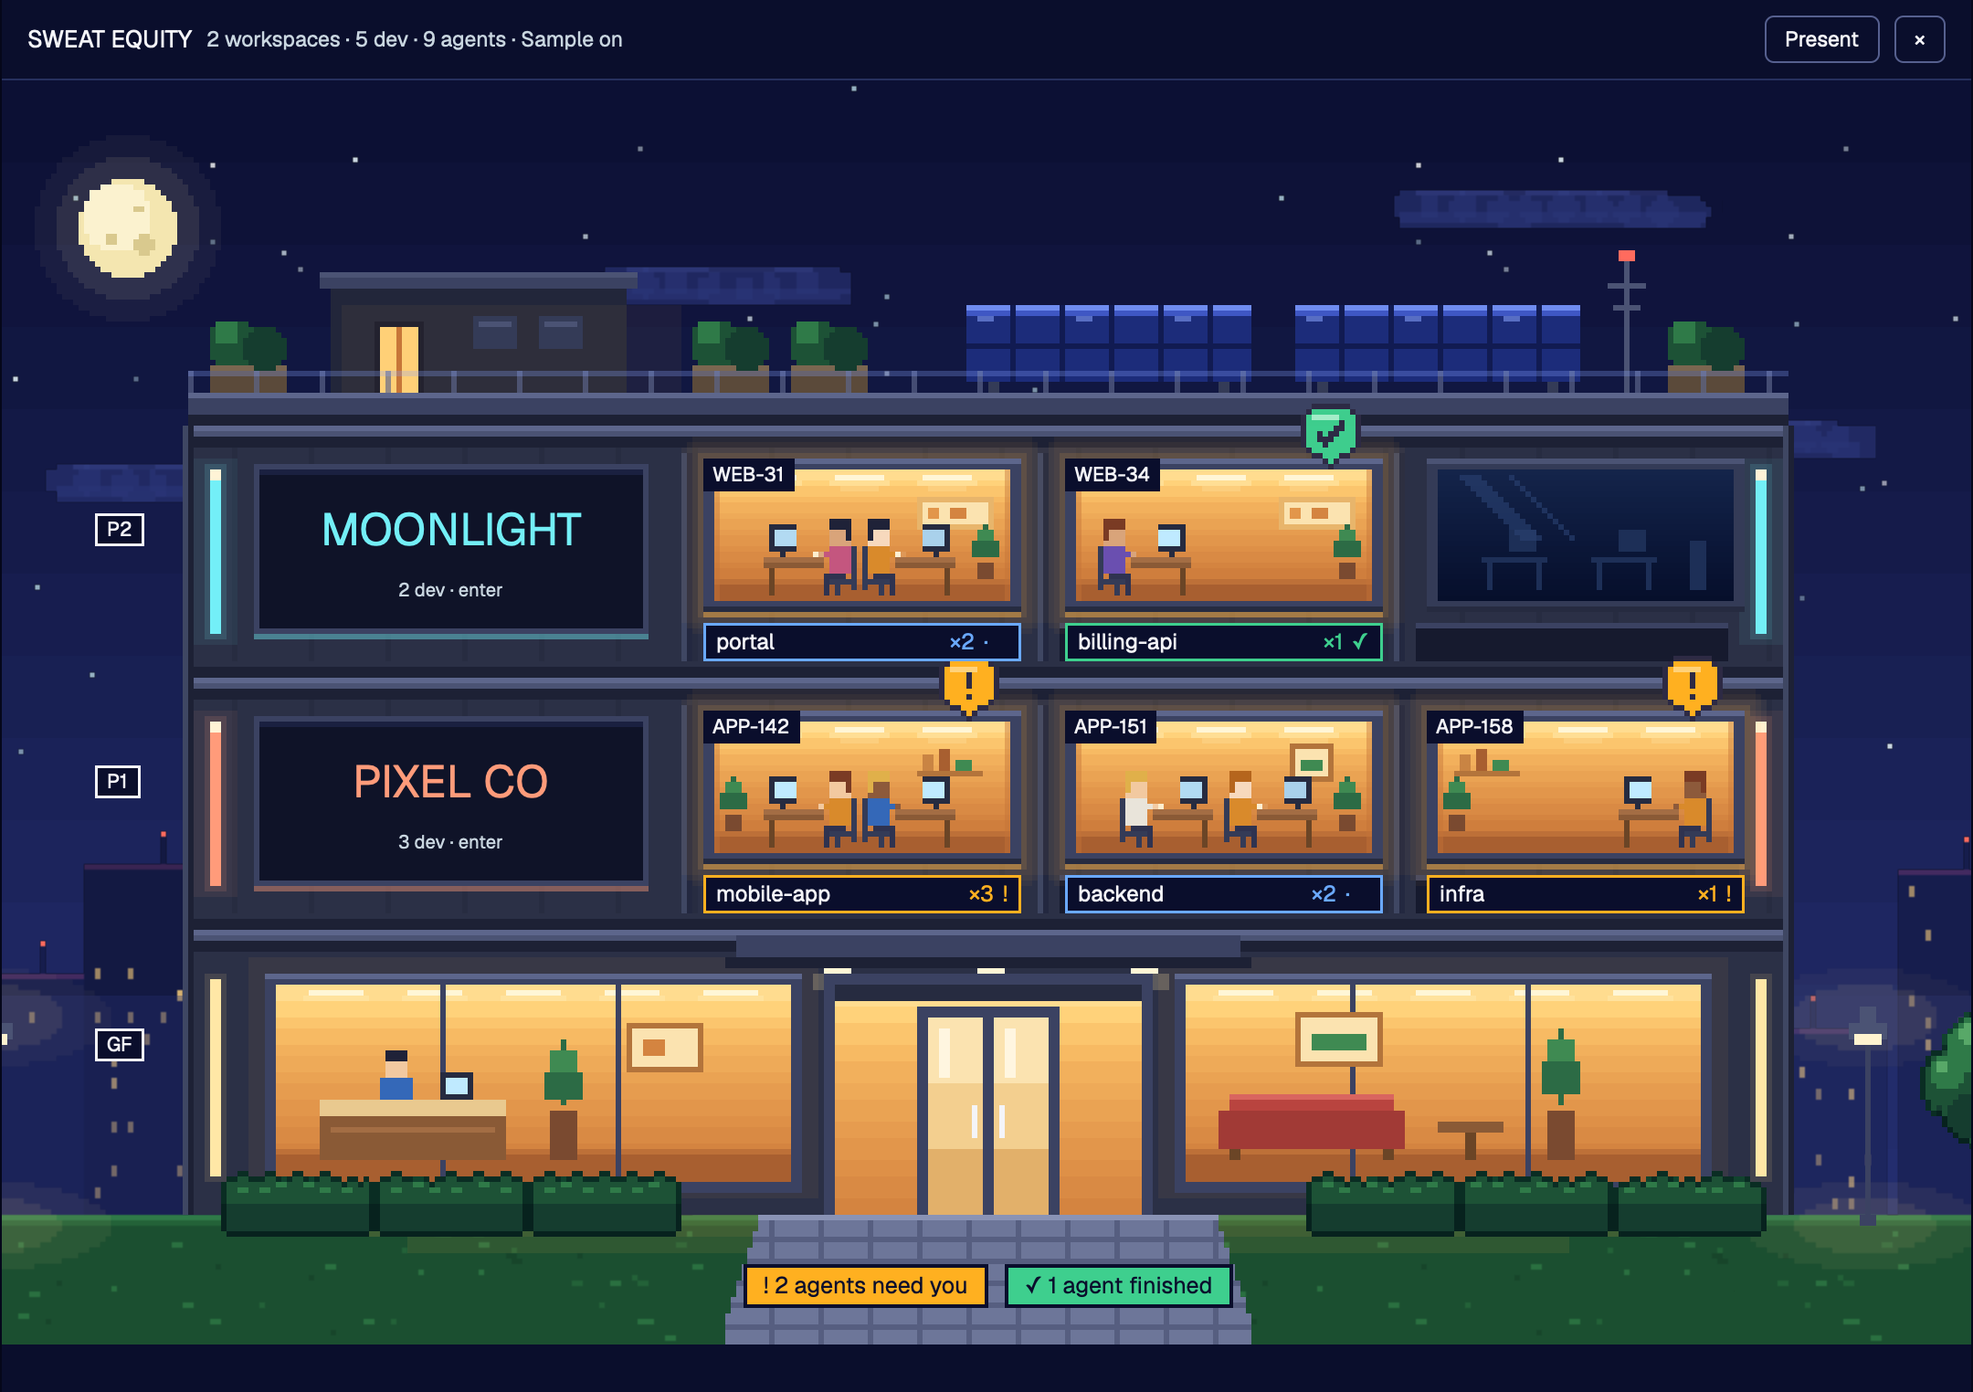
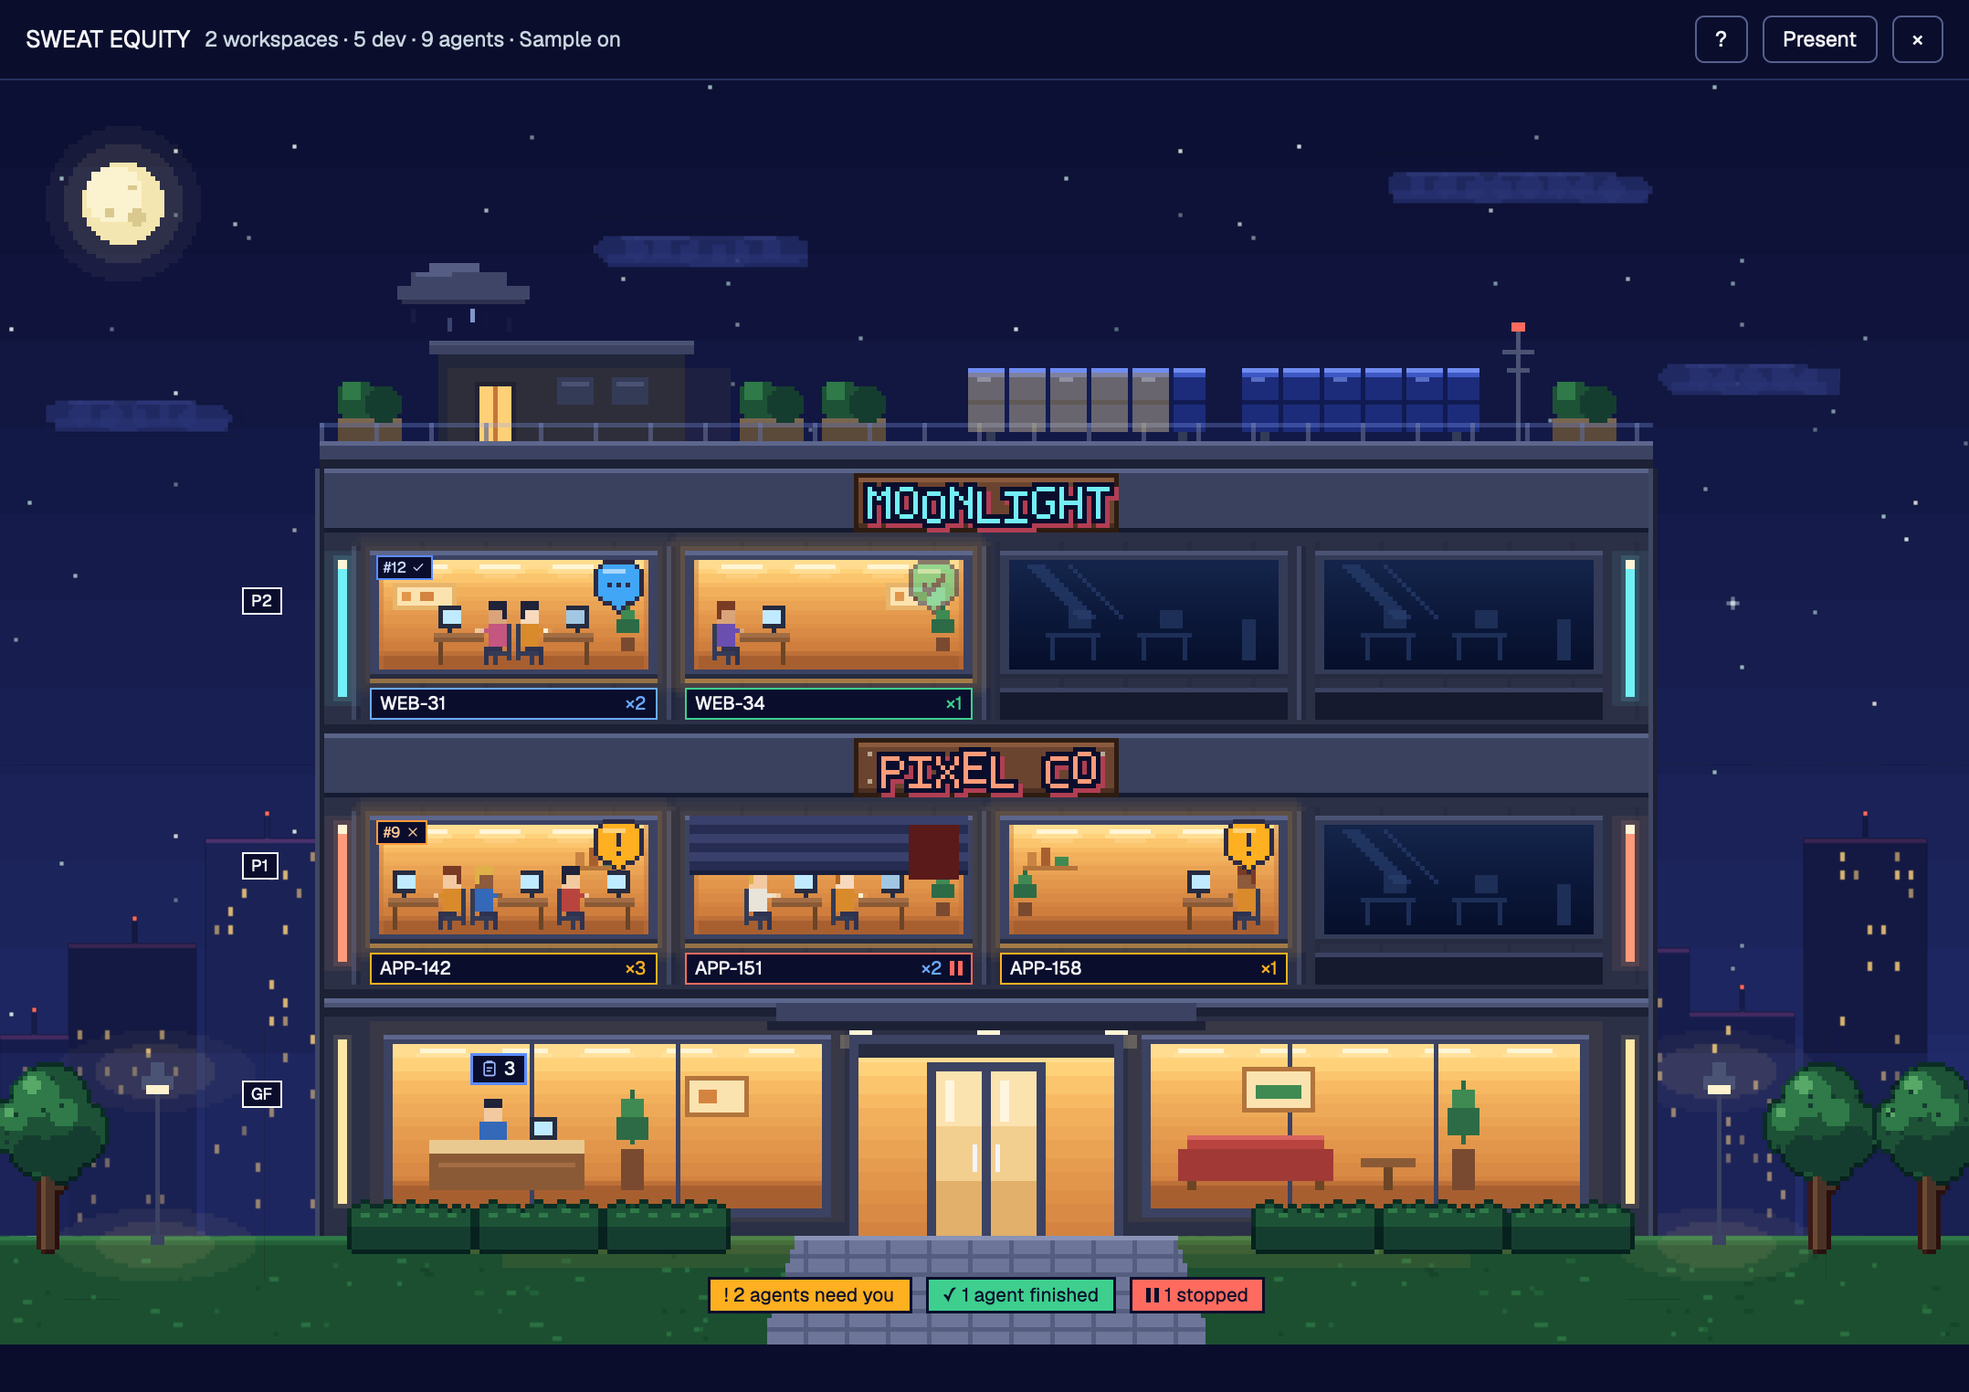
Add office and Jira panel screenshots to the READMEs
- Fresh preview.png of the sample tower (blinds, PR tags, storm cloud,
  solar panels, reception badge), plus office.png (inside PIXEL CO) and
  jira.png (APP-142's panel), all shot from Herdr with the sample on.
- The sample's APP-142 room carries five subtasks, and its whiteboard
  opens the issue panel; Jira, terminals and replies stay inert there.
- Post-it meta lines wrap instead of spilling out of the card, and a
  column's count sits beside its name.
- The READMEs say a whiteboard click opens the ticket's panel.

diff --git a/mods/sweat-equity/main.js b/mods/sweat-equity/main.js
@@ -482,7 +482,7 @@ export default class SweatEquity extends View {
       const R = office?.rooms?.find((r) => r.key === P.key);
       if (!R) { this.panel = null; return null; }
       // Jira's data when there is some; otherwise what the room already knows (the sample, or the counts it carried)
-      const iss = this.jira.issues[R.key] ?? (R.cols ? { status: R.statusText, summary: R.title, cols: R.cols, names: R.names, curCol: R.curCol, done: R.cols[R.cols.length - 1], blocked: R.blocked, solo: false, subs: [] } : null);
+      const iss = this.jira.issues[R.key] ?? (R.cols ? { status: R.statusText, summary: R.title, cols: R.cols, names: R.names, curCol: R.curCol, done: R.cols[R.cols.length - 1], blocked: R.blocked, solo: false, subs: R.subs ?? [] } : null);
       // the columns are the Jira board's own; the sample keeps the four of the design
       const names = iss?.names ?? t.colNames, last = names.length - 1;
       const POSTIT = ["#f6e7a6", "#ffd7b0", "#dccbff", "#bdeccc"], STOP = "#ff8a80", RED = "#e2532f";
@@ -511,14 +511,14 @@ export default class SweatEquity extends View {
       const board = h_flex().gap(6).items_start().children(names.map((nm, c) => {
         const list = iss ? iss.subs.filter((s) => s.col === c) : [];
         return v_flex().flex_1().min_w(0).gap(6).p(6).rounded(6).bg(col(PICK)).border_t(3).border_color(col(TOP(c)))
-          .child(div().text_size(11).font_bold().text_color(col(PAPER)).child(`${nm} `).child(div().text_color(col(DIM)).font_normal().child(String(list.length))))
+          .child(h_flex().gap(5).text_size(11).font_bold().text_color(col(PAPER)).child(div().truncate().child(nm)).child(div().text_color(col(DIM)).font_normal().child(String(list.length))))
           .children(list.map((s, i) => v_flex().id(`se-sub-${c}-${i}`).gap(3).p(7).rounded(3).bg(col(s.blocked ? "#ff8a80" : tint(c))).cursor_pointer()
             .border_l(s.blocked ? 4 : 0).border_color(col("#c62828"))
             .when(!s.blocked && !!s.by && !!s.at && Date.now() - s.at < 10 * 60000, (el) => el.border(2).border_color(col(BLUE)))
             .hover((x) => x.opacity(0.85)).tooltip(`${s.key} · ${s.summary}\n${s.status}`)
-            .on_click(() => this.openKey(s.key))
+            .on_click(() => { if (!tower.demo) this.openKey(s.key); })
             .child(div().text_size(11.5).font_semibold().text_color(col(INK)).child(s.summary))
-            .child(h_flex().gap(6).items_center().text_size(9.5).text_color(col("#5c6078"))
+            .child(h_flex().flex_wrap().gap_x(6).gap_y(2).items_center().text_size(9.5).text_color(col("#5c6078"))
               .when(s.blocked && !!s.since, (el) => el.child(this.bars("#7a0f0f", 8)).child(div().font_bold().text_color(col("#4a1010")).child(fmtAge(Date.now() - s.since))))
               .when(!!s.by, (el) => el.child(svg(`${DIR}/icons/robot.svg`).size(11).text_color(col("#2b3a8f"))).child(div().font_semibold().text_color(col("#2b3a8f"))
                 .child(s.at ? `${s.by} · ${t.ago.replace("{t}", fmtAge(Date.now() - s.at))}` : s.by)))
@@ -529,14 +529,14 @@ export default class SweatEquity extends View {
       const waiting = R.agents.filter((a) => a.state === "blocked");
       const squad = h_flex().gap(6).flex_wrap().children(R.agents.map((a, i) => h_flex().id(`se-sq-${i}`).gap(6).px(8).h(24).items_center().rounded(5).bg(col(PICK)).cursor_pointer()
         .border(1).border_color(col(STATUS[a.state]?.color ?? LINE)).tooltip(a.doing || a.name).text_size(11.5).text_color(col(PAPER))
-        .on_click(() => { this.panel = null; this.go("agent.focus", { terminal: a.address }); })
+        .on_click(() => { if (tower.demo) return; this.panel = null; this.go("agent.focus", { terminal: a.address }); })
         .child(div().flex_none().w(8).h(8).rounded(4).bg(col(STATUS[a.state]?.color ?? DIM)))
         .child(div().truncate().max_w(170).child(a.name))));
       const banners = waiting.map((a, i) => h_flex().id(`se-wait-${i}`).gap(10).items_center().pl(12).pr(6).py(6).rounded(8).border(2).border_color(col("#ffb020")).bg(col("#3a2a10"))
         .child(div().flex_none().w(10).h(10).rounded(5).bg(col("#ffb020")))
         .child(div().flex_1().min_w(0).truncate().text_size(12).text_color(col(PAPER)).child(t.waitsYou.replace("{who}", a.name)))
-        .child(this.button(`se-reply-${i}`, t.reply, true, () => { this.panel = null; this.go("agent.focus", { terminal: a.address }); })));
-      const open = this.cfg.jira ? [this.button("se-open-jira", t.openJira, true, () => this.openKey(R.key))] : [];
+        .child(this.button(`se-reply-${i}`, t.reply, true, () => { if (tower.demo) return; this.panel = null; this.go("agent.focus", { terminal: a.address }); })));
+      const open = this.cfg.jira && !tower.demo ? [this.button("se-open-jira", t.openJira, true, () => this.openKey(R.key))] : [];
       if (pr?.url) open.push(this.button("se-open-pr", t.openPr.replace("{n}", String(pr.number)), false, () => this.openUrl(pr.url)));
       const moved = readLog().events.filter((e) => e.story === R.key && ["move", "stopped", "done", "stale"].includes(e.kind)).slice(0, 3);
       const recent = moved.length ? [this.section(t.recent), v_flex().gap(4).children(moved.map((e, i) => h_flex().id(`se-rec-${i}`).gap(10).items_center().px(8).py(6).rounded(4).bg(col("#161d45")).text_size(12)
@@ -844,7 +844,7 @@ export default class SweatEquity extends View {
       buildOffice(sc, fit, office, {
         t, spot: talking.length ? talking[this.spot % talking.length].id : null,
         onAgent: focus,
-        onIssue: !tools ? null : act((room, cx) => { if (!room.general) { this.panel = { kind: "issue", key: room.key }; cx?.notify?.(); } }),
+        onIssue: !tools && !(tower.demo && !st.presenting) ? null : act((room, cx) => { if (!room.general) { this.panel = { kind: "issue", key: room.key }; cx?.notify?.(); } }),
         onNew: tools ? act((cx) => this.openNew(floor.name, cx)) : null,
       });
       sceneW = fit.w * k; sceneH = fit.h * k;

diff --git a/mods/sweat-equity/data.js b/mods/sweat-equity/data.js
@@ -297,12 +297,21 @@ export function demoLive() {
   };
 }
 
+// the sample story's subtasks, so the sample's board has post-its: one stopped, one moved by an agent a moment ago
+const demoSubs = () => [
+  { key: "APP-160", summary: "Error copy for a wrong PIN", status: "To do", col: 0 },
+  { key: "APP-143", summary: "PIN endpoint with rate limit", status: "In progress", col: 1, by: "backend", at: Date.now() - 4 * 60000 },
+  { key: "APP-144", summary: "PIN screen on the transfer flow", status: "On hold", col: 1, blocked: true, since: Date.now() - 26 * 3600000 },
+  { key: "APP-145", summary: "Carrier API contract", status: "Done", col: 3 },
+  { key: "APP-146", summary: "Audit log for transfers", status: "Done", col: 3, by: "docs" },
+];
+
 export function demoOffice(floor, t) {
   const room = (key, title, statusText, counts, cur, list, cols = [counts[0], counts[1], 0, counts[2]], curCol = cur === 2 ? 3 : cur) => ({ key, title, statusText, counts, cols, curCol, cur, agents: list, more: 0 });
   return {
     name: floor.name, color: floor.color,
     rooms: [
-      room("APP-142", "Validate the PIN on number transfer", "In progress", [1, 2, 2], 1, [demoAgent("a1", "qa", "blocked"), demoAgent("a2", "backend", "working"), demoAgent("a3", "mobile-app", "working"), demoAgent("a4", "docs", "done")]),
+      { ...room("APP-142", "Validate the PIN on number transfer", "In progress", [1, 2, 2], 1, [demoAgent("a1", "qa", "blocked"), demoAgent("a2", "backend", "working"), demoAgent("a3", "mobile-app", "working"), demoAgent("a4", "docs", "done")]), subs: demoSubs() },
       room("APP-151", "Top up with a saved card", "In review", [0, 3, 3], 1, [demoAgent("a5", "backend", "done"), demoAgent("a6", "mobile-app", "working"), demoAgent("a7", "qa", "working")], [0, 1, 2, 3], 2),
       room("APP-158", "eSIM activation", "To do", [4, 0, 0], 0, [demoAgent("a8", "backend", "blocked"), demoAgent("a9", "infra", "idle")]),
     ],

diff --git a/RECIPE.md b/RECIPE.md
@@ -66,7 +66,7 @@ Amber is used for nothing else in the art.
 - A whiteboard title or a plaque opens the ticket in the browser when Jira is configured.
 - `+ workspace` opens the folder picker; the workspace takes the folder's name in capitals (16 letters at most) and the next color of `#ff9b7a #73eff7 #a7f070 #d0a8ff #ffd27a #94b0c2`.
 - `Present` removes the spare top floor, whoever waits outside, the footer notes, and every control that changes something (`+ new`, eye, pen, right click). Hidden floors stay hidden with or without it.
-- `Sample` swaps in a made-up tower (PIXEL CO, MOONLIGHT) where you can walk into the floors and nothing else responds.
+- `Sample` swaps in a made-up tower (PIXEL CO, MOONLIGHT) where you can walk into the floors and open `APP-142`'s panel, and nothing else responds.
 - `×` or Esc closes the tower, with or without a panel open. Hovering a chip, a label, an icon, a whiteboard title or a plaque shows its full text.
 
 **Keys.** In `layout:sweat-equity`: `cmd-shift-e` and `ctrl-shift-e` run `mod.open:sweat-equity`.
@@ -84,7 +84,7 @@ Amber is used for nothing else in the art.
   - `facade.js`: the tower. `office.js`: one floor's inside. `data.js`: Herdr data to floors, rooms, coworkers and lounge; the config file; the sample tower; Jira.
   - `sprites.js` (generated): sprite name to `[width, height]` in art pixels; `SPOTS`, for each lit window, one `[screen x, screen y, hands x, hands y]` per person inside; `PEOPLE`, the number of people variants. `sprites/`: 163 PNGs, exported at 6× (sky, skyline, ground, wood and glows at 3×). `icons/`: `eye.svg`, `eye-off.svg`, `pen.svg`, drawn with the current color.
 - `herdr` functions: `spaces`, `agents`, `panes`, `terminals`, `shared` / `setShared` (key `sweat-equity`: `{ workspaces: [{ name, root, color }], hidden: [name], pins: { spaceId: floor name, or "" for none }, presenting, demo }`), `run` (`space.select`, `agent.focus`, `mod.open`, `space.new {folder, machine: "", argv, task}`, `tab.new {space, name, argv, task}`), `knownAgents` (started with `argv: agent.run`), `hc`, `exec`, `props`, `closeOverlay`, `pickFolder`, `readTextFile`, `appHome`, `home`, `window`, `theme` (the sidebar line only; the tower keeps its own night palette in every theme). From the UI kit: `div`, `image`, `svg`, `h_flex`, `v_flex`, `InputState` and `Input`, absolute `left`/`top`/`right`, `loop`, `frames`, `tooltip`, `hover`, `on_click`, `on_mouse_down("right")`, `on_size_change`, `overflow_y_scrollbar`, `truncate`, `when`.
-- Optional config, `~/.config/herdr-app/sweat-equity.json`: `{ "lang": "en" | "es", "jira": "https://you.atlassian.net", "keychain": "herdr-jira", "workspaces": [ … ], "demo": true, "frame": [1078, 762] }`. `workspaces` only seeds the list before the first change; `demo` forces the sample tower; `frame` draws the whole view in a box of that size, centered in the window. The file is read when a copy of the mod starts. `preview.png` is the sample tower with `"lang": "en"`, `"demo": true` and `"frame": [1078, 762]`.
+- Optional config, `~/.config/herdr-app/sweat-equity.json`: `{ "lang": "en" | "es", "jira": "https://you.atlassian.net", "keychain": "herdr-jira", "workspaces": [ … ], "demo": true, "frame": [1078, 762] }`. `workspaces` only seeds the list before the first change; `demo` forces the sample tower; `frame` draws the whole view in a box of that size, centered in the window. The file is read when a copy of the mod starts. `preview.png` is the sample tower with `"lang": "en"`, `"demo": true` and `"frame": [1078, 762]`; `office.png` is the PIXEL CO floor and `jira.png` the `APP-142` panel, same settings (`herdr-app shot`, cropped to the frame).
 - Network: none unless `jira` is set. Then, with Basic auth, when the tower opens, every two minutes and on `Refresh Jira`: `GET {jira}/rest/api/3/issue/KEY?fields=status,summary,subtasks` for each ticket on screen, or `GET {jira}/rest/api/3/myself` when no branch carries a ticket, to tell whether the credentials work.
 - Programs it runs:
   - `security find-generic-password -s <keychain>` (macOS keychain: the account is the Jira email, the password is the API token; kept in memory only).

diff --git a/README.es.md b/README.es.md
@@ -57,6 +57,8 @@ Después agrega las dos teclas de `keys.json` a tu `~/.config/herdr-app/keys.jso
 
 **Entrar a un piso.** Clic en su letrero. Cada cuarto es un equipo: los agentes cuya rama trae la misma historia, sentados con los ayudantes que lanzaron. Los que trabajan sin historia comparten un cuarto; los que están libres descansan en la sala. La etiqueta de cada compañero dice quién es y en qué anda, y uno a la vez lo dice completo. La lista del equipo lo repite en texto, con tiempo y tokens para los ayudantes. Un clic en cualquiera te lleva a su terminal. `← Edificio` regresa.
 
+![Dentro de un piso: un cuarto por historia, la sala abajo](office.png)
+
 **Ocultar un piso.** El ojo del letrero lo oculta: el piso sale del edificio y sus ventanas, alertas y conteos se van con él (también de la línea del costado). Nada en pantalla dice que hay algo oculto; solo la luna reacciona, con cursor y aviso al pasar sobre ella. Mientras haya un piso oculto, la luna es un botón: un clic y los pisos ocultos regresan como pisos vacíos y atenuados, marcados `Oculto`; el ojo de uno lo devuelve para siempre y otro clic en la luna vuelve a ocultar los demás. Eso no se guarda: al reiniciar, los pisos ocultos siguen ocultos.
 
 **Presentar.** `Presentar` quita los controles de edición (ojo, lápiz, `+ nuevo`), el piso disponible y a quien espera afuera, para que solo quede el edificio. `Salir de presentar` los regresa. Los pisos ocultos siguen ocultos con o sin presentar.
@@ -79,7 +81,9 @@ Después agrega las dos teclas de `keys.json` a tu `~/.config/herdr-app/keys.jso
 
 ## Pizarras con tus historias (opcional, Jira Cloud)
 
-Cada cuarto de equipo tiene una pizarra. Con Jira conectado muestra el estado y el título de la historia, y una tarjeta por subtarea en tres columnas: por hacer, en curso, hecho. Un clic en la pizarra abre la historia en tu navegador.
+Cada cuarto de equipo tiene una pizarra. Con Jira conectado muestra el estado y el título de la historia, y una tarjeta por subtarea en tres columnas: por hacer, en curso, hecho. Un clic en la pizarra abre el panel de la historia: su tablero con un post-it por subtarea en las columnas del propio tablero (las detenidas en rojo, con cuánto llevan), quién movió cada una, el PR de la rama y sus checks, el escuadrón y `Abrir en Jira`.
+
+![El panel de una historia: su tablero, el PR, el escuadrón y quién te espera](jira.png)
 
 1. Crea un token de API en id.atlassian.com (Seguridad, Tokens de API).
 2. Guárdalo en el llavero de macOS. El comando te pide el token y no se escribe en ningún archivo:

diff --git a/README.md b/README.md
@@ -55,6 +55,8 @@ Then add the two keys in `keys.json` to your own `~/.config/herdr-app/keys.json`
 
 **Step inside a floor.** Click its sign. Each room is a squad: the agents whose branch carries the same ticket, sitting with the helpers they started. Agents working without a ticket share one room; idle agents rest in the lounge. Each coworker's label shows who they are and what they are on, and one of them at a time says it in full. The team list repeats it as text, with time and tokens for helpers. Click anyone to jump to their terminal. `← Tower` goes back.
 
+![Inside a floor: one room per ticket, the lounge below](office.png)
+
 **Hide a floor.** The eye on a floor's sign hides it: the floor leaves the tower, and its windows, alerts and counts leave with it (the sidebar line too). Nothing on screen says that something is hidden; only the moon reacts, with a pointer and a tooltip when you hover it. While a floor is hidden, the moon is a button: click it and the hidden floors come back as empty, muted floors marked `Hidden`; the eye on one brings it back for good, and another click on the moon hides the rest again. Showing them is not saved: after a restart, hidden floors are hidden.
 
 **Present.** `Present` removes the editing controls (eye, pen, `+ new`), the spare floor and whoever waits outside, so only the tower is left. `Stop presenting` brings them back. Hidden floors stay hidden either way.
@@ -77,7 +79,9 @@ Then add the two keys in `keys.json` to your own `~/.config/herdr-app/keys.json`
 
 ## Ticket whiteboards (optional, Jira Cloud)
 
-Each squad room has a whiteboard. Connect Jira and it shows the ticket's status and title, and one card per subtask in three columns: to do, in progress, done. Clicking the whiteboard opens the ticket in your browser.
+Each squad room has a whiteboard. Connect Jira and it shows the ticket's status and title, and one card per subtask in three columns: to do, in progress, done. Clicking the whiteboard opens the ticket's panel: its board with one post-it per subtask in the board's own columns (stopped ones in red, with how long), who moved each one, the branch's PR and its checks, the squad, and `Open in Jira`.
+
+![A ticket's panel: its board, the PR, the squad and who is waiting](jira.png)
 
 1. Create an API token at id.atlassian.com (Security, API tokens).
 2. Store it in the macOS keychain. The command asks for the token and nothing is written to a file:
